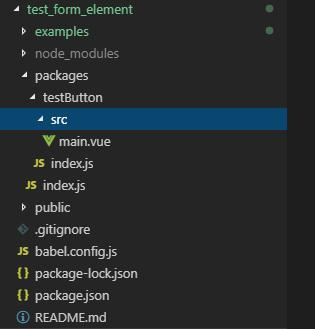
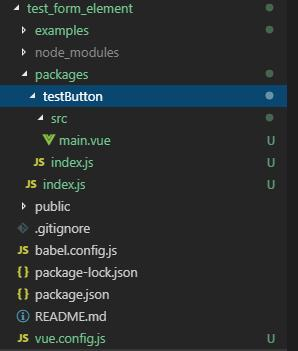
使用vue cli 3.0.4版本开发和发布npm组件

diff --git a/vue_cli 3.0/制作和发布npm包/index.md b/vue_cli 3.0/制作和发布npm包/index.md
@@ -1,7 +1,7 @@
 # 使用vue cli 3.0.4版本开发和发布npm组件
 
 ## 一、开发步骤
-* 1、搭建项目
+### 1、搭建项目
   <pre>vue create <你的项目名称></pre>
   在此省略使用vue cli 3.X的搭建项目的步骤，可以根据自身的需求进行设置，<br>
   当前选择的是：<b>default (babel, eslint)</b>
@@ -22,9 +22,28 @@
 
   ![](2.jpg "2.jpg")
   
-  现在下面列下每个文件中的代码：
+### 2、现在列下每个文件中的代码：
 
-  testButton/src/main.vue(在此只是用于测试)
+* 1、根目录下的vue.config.js
+
+  <pre>
+    module.exports = {
+      // 将 examples 目录添加为新的页面
+      pages: {
+        index: {
+          // page 的入口
+          entry: 'examples/main.js',
+          // 模板来源
+          template: 'public/index.html',
+          // 输出文件名
+          filename: 'index.html'
+        }
+      },
+      productionSourceMap: false
+    }
+  </pre>
+
+* 2、testButton/src/main.vue(在此只是用于测试)
   <pre>
     &lt;template&gt;
       &lt;a class="btn btn-blue" href="javascript:void(0);" @click="fnClick"&gt;
@@ -79,7 +98,7 @@
     &lt;/style&gt;
   </pre>
 
-  testButton/index.js文件
+* 3、testButton/index.js文件
 
   <pre>
   // 导入组件，组件必须声明 name
@@ -87,12 +106,13 @@
 
   // 为组件添加 install 方法，用于按需引入
   TestButton.install = function (Vue) {
-  Vue.component(TestButton.name, TestButton)
+      Vue.component(TestButton.name, TestButton)
   }
+
   export default TestButton
   </pre>
 
-  packages/index.js文件
+* 4、packages/index.js文件
 
   <pre>
   // 导入单个组件
@@ -102,6 +122,7 @@
   const components = [
       TestButton
   ]
+
   // 定义 install 方法
   const install = function (Vue) {
       if (install.installed) return
@@ -111,9 +132,12 @@
           Vue.component(component.name, component)
       })
   }
+
   if (typeof window !== 'undefined' && window.Vue) {
       install(window.Vue)
   }
+
+  // **********这里不能写 export default, 会报错，可自己尝试
   export {
       // 导出的对象必须具备一个 install 方法
       install,
@@ -122,8 +146,194 @@
   }
   </pre>
 
-  有2种引入方式，一个是全局引入，一个按需引入
+* 5、有2种引入方式，一个是全局引入，一个按需引入
+
+  【全局引入】
+
+  只需在 examples/main.js中引入即可，代码如下：
   
+  <pre>
+    import Vue from 'vue'
+    import App from './App.vue'
+
+    // 在这边引入组件
+    import {TestButton} from '../packages/index'
+    Vue.use(TestButton)
+
+    Vue.config.productionTip = false
+
+    new Vue({
+      render: h => h(App),
+    }).$mount('#app')
+  </pre>
+  
+  然后即可在应用的所有页面进行使用：
+  
+  <pre>
+    &lt;test-button :text="'测试按钮'" @click="addListItem"&gt;&lt;/test-button&gt;
+  </pre>
+
+  【按需引入】
+
+  在对应的页面中即可，在按需引入的时候，一直提示找不到组件，原因是在引入的时候，组件名称直接写 TestButton，正确要写成 {TestButton}
+  <pre>
+    // 在这边引入组件
+    import {TestButton} from '../packages/index'
+
+    export default {
+      name: 'app',
+      components: {
+        TestButton
+      }
+    }
+  </pre>
+
+  自己在本地测试下组件是否有问题，若没有问题，下面便可以开始进行发包
+
+## 二、npm发包步骤
+* 1、package.json 中新增一条编译为库的命令
+  
+  在库模式中，Vue是外置的，这意味着即使在代码中引入了 Vue，打包后的文件也是不包含Vue的。
+
+  <b>Vue Cli3 构建目标：库</b>
+
+  以下我们在 scripts 中新增一条命令 npm run lib
+
+  --target: 构建目标，默认为应用模式。这里修改为 lib 启用库模式。
+
+  --dest : 输出目录，默认 dist。这里我们改成 lib
+
+  [entry]: 最后一个参数为入口文件，默认为 src/App.vue。这里我们指定编译 packages/ 组件库目录。
+
+  <pre>
+    "scripts": {
+        // ...
+        "lib": "vue-cli-service build --target lib --name vcolorpicker --dest lib packages/index.js"
+    }
+  </pre>
+
+  执行编译库命令
+
+  <pre>
+    $ npm run lib
+  </pre>
+
+* 2、配置 package.json 文件中发布到 npm 的字段
+  
+  name: 包名，该名字是唯一的。可在 npm 官网搜索名字，如果存在则需换个名字。
+
+  version: 版本号，每次发布至 npm 需要修改版本号，不能和历史版本号相同。
+
+  description: 描述。
+
+  main: 入口文件，该字段需指向我们最终编译后的包文件。
+
+  keyword：关键字，以空格分离希望用户最终搜索的词。
+
+  author：作者
+
+  private：是否私有，需要修改为 false 才能发布到 npm
+
+  license： 开源协议
+
+  <pre>
+    "name": "test_form_element",
+    "version": "1.0.1",
+    "description": "发包测试",
+    "main": "lib/testformelement.umd.min.js",
+    "keyword": "testformelement test-form-element",
+    "private": false
+  </pre>
+
+* 3、添加 .npmignore 文件，设置忽略发布文件
+
+  我们发布到 npm 中，只有编译后的 lib 目录、package.json、README.md才是需要被发布的。所以我们需要设置忽略目录和文件。
+
+  和 .gitignore 的语法一样，具体需要提交什么文件，看各自的实际情况。
+
+  <pre>
+    # 忽略目录
+    examples/
+    node_modules/
+    packages/
+    public/
+
+    # 忽略指定文件
+    vue.config.js
+    babel.config.js
+    *.map
+  </pre>
+
+* 4、登录到 npm
+  
+  首先需要到 npm 上注册一个账号，注册过程略。
+
+  最快的方式是直接在官网上进行注册 [https://www.npmjs.com](https://www.npmjs.com)
+
+  如果配置了淘宝镜像，先设置回npm镜像：
+
+  <pre>
+    $ npm config set registry http://registry.npmjs.org 
+  </pre>
+
+  然后在终端执行登录命令，输入用户名、密码、邮箱即可登录。
+
+  <pre>
+    $ npm login
+  </pre>
+
+* 5、发布到 npm
+  
+  执行发布命令，发布组件到 npm
+
+  <pre>
+    $ npm publish
+  </pre>
+
+* 6、使用新发布的组件库
+
+  <pre>
+    $ npm install test_form_element -S
+  </pre>
+
+  <pre>
+    &lt;template&gt;
+      &lt;div id="app"&gt;
+        &lt;img alt="Vue logo" src="./assets/logo.png"&gt;
+        &lt;p v-for="(item, index) in list" :key="index"&gt;{{item.name}}&lt;/p&gt;
+        &lt;test-button :text="'测试按钮'" @click="addListItem"&gt;&lt;/test-button&gt;
+      &lt;/div&gt;
+    &lt;/template&gt;
+
+    &lt;script&gt;
+    // 导入单个组件
+    import 'test_form_element/lib/testformelement.css';
+    import {TestButton} from 'test_form_element';
+
+    export default {
+      name: 'app',
+      components: {
+        TestButton
+      },
+      data: function () {
+        return {
+          list: []
+        };
+      },
+      methods: {
+        addListItem: function () {
+          let oldList = JSON.parse(JSON.stringify(this.list));
+
+          this.list.push({
+            name: 'test_' + (oldList.length+1)
+          });
+        }
+      }
+    }
+    &lt;/script&gt;
+  </pre>
+
+
 
 
 
